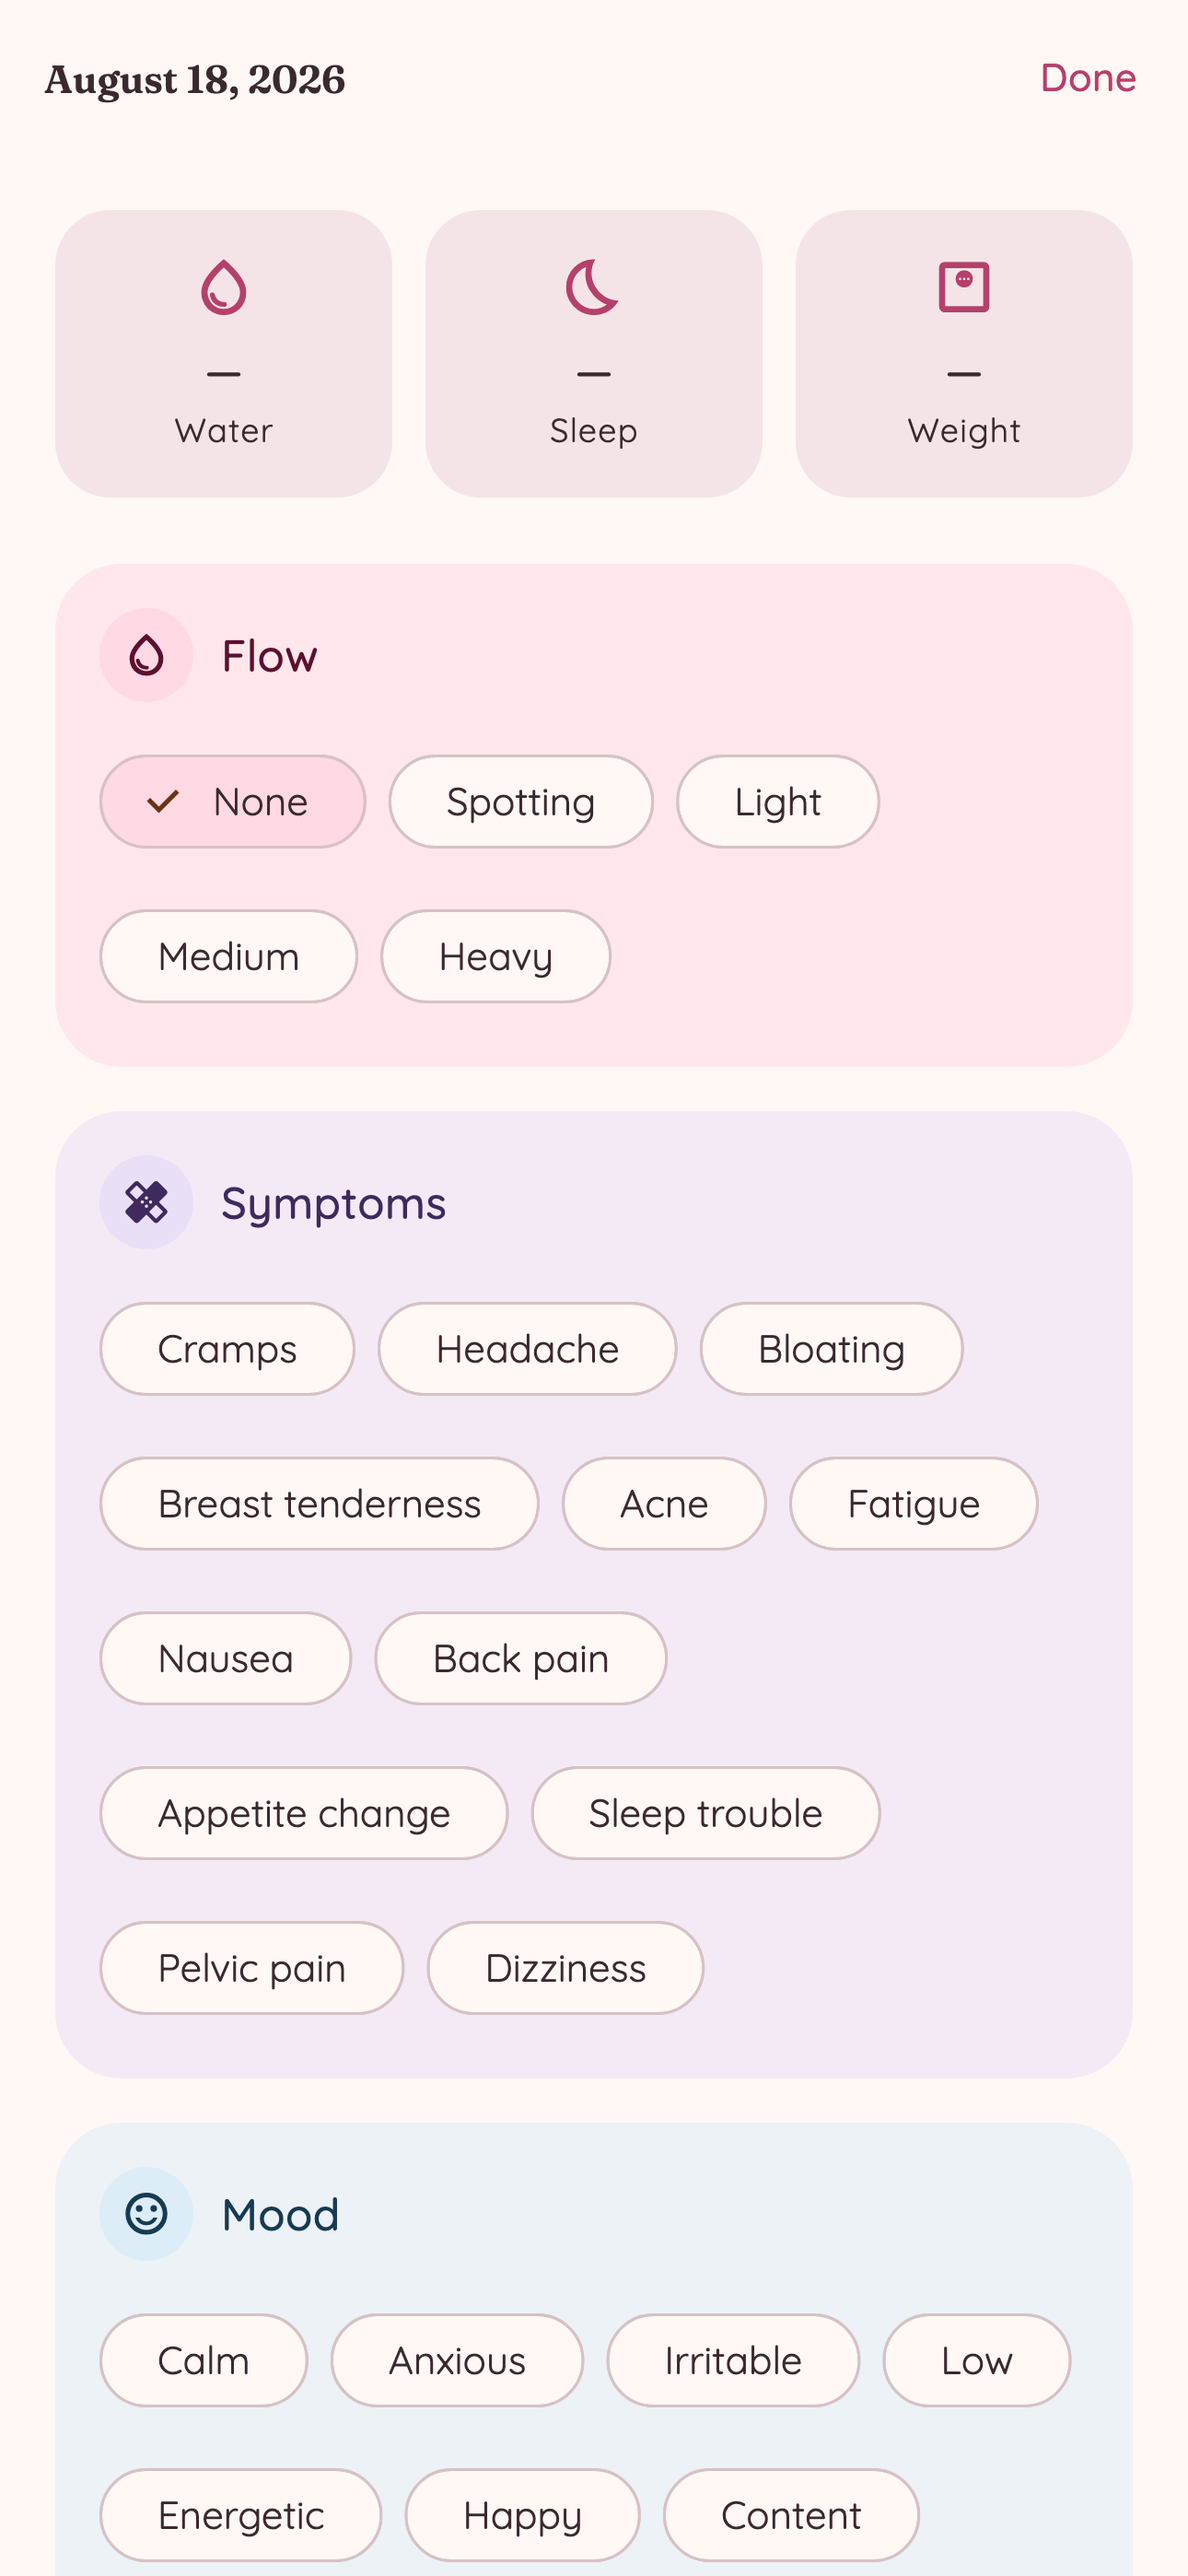
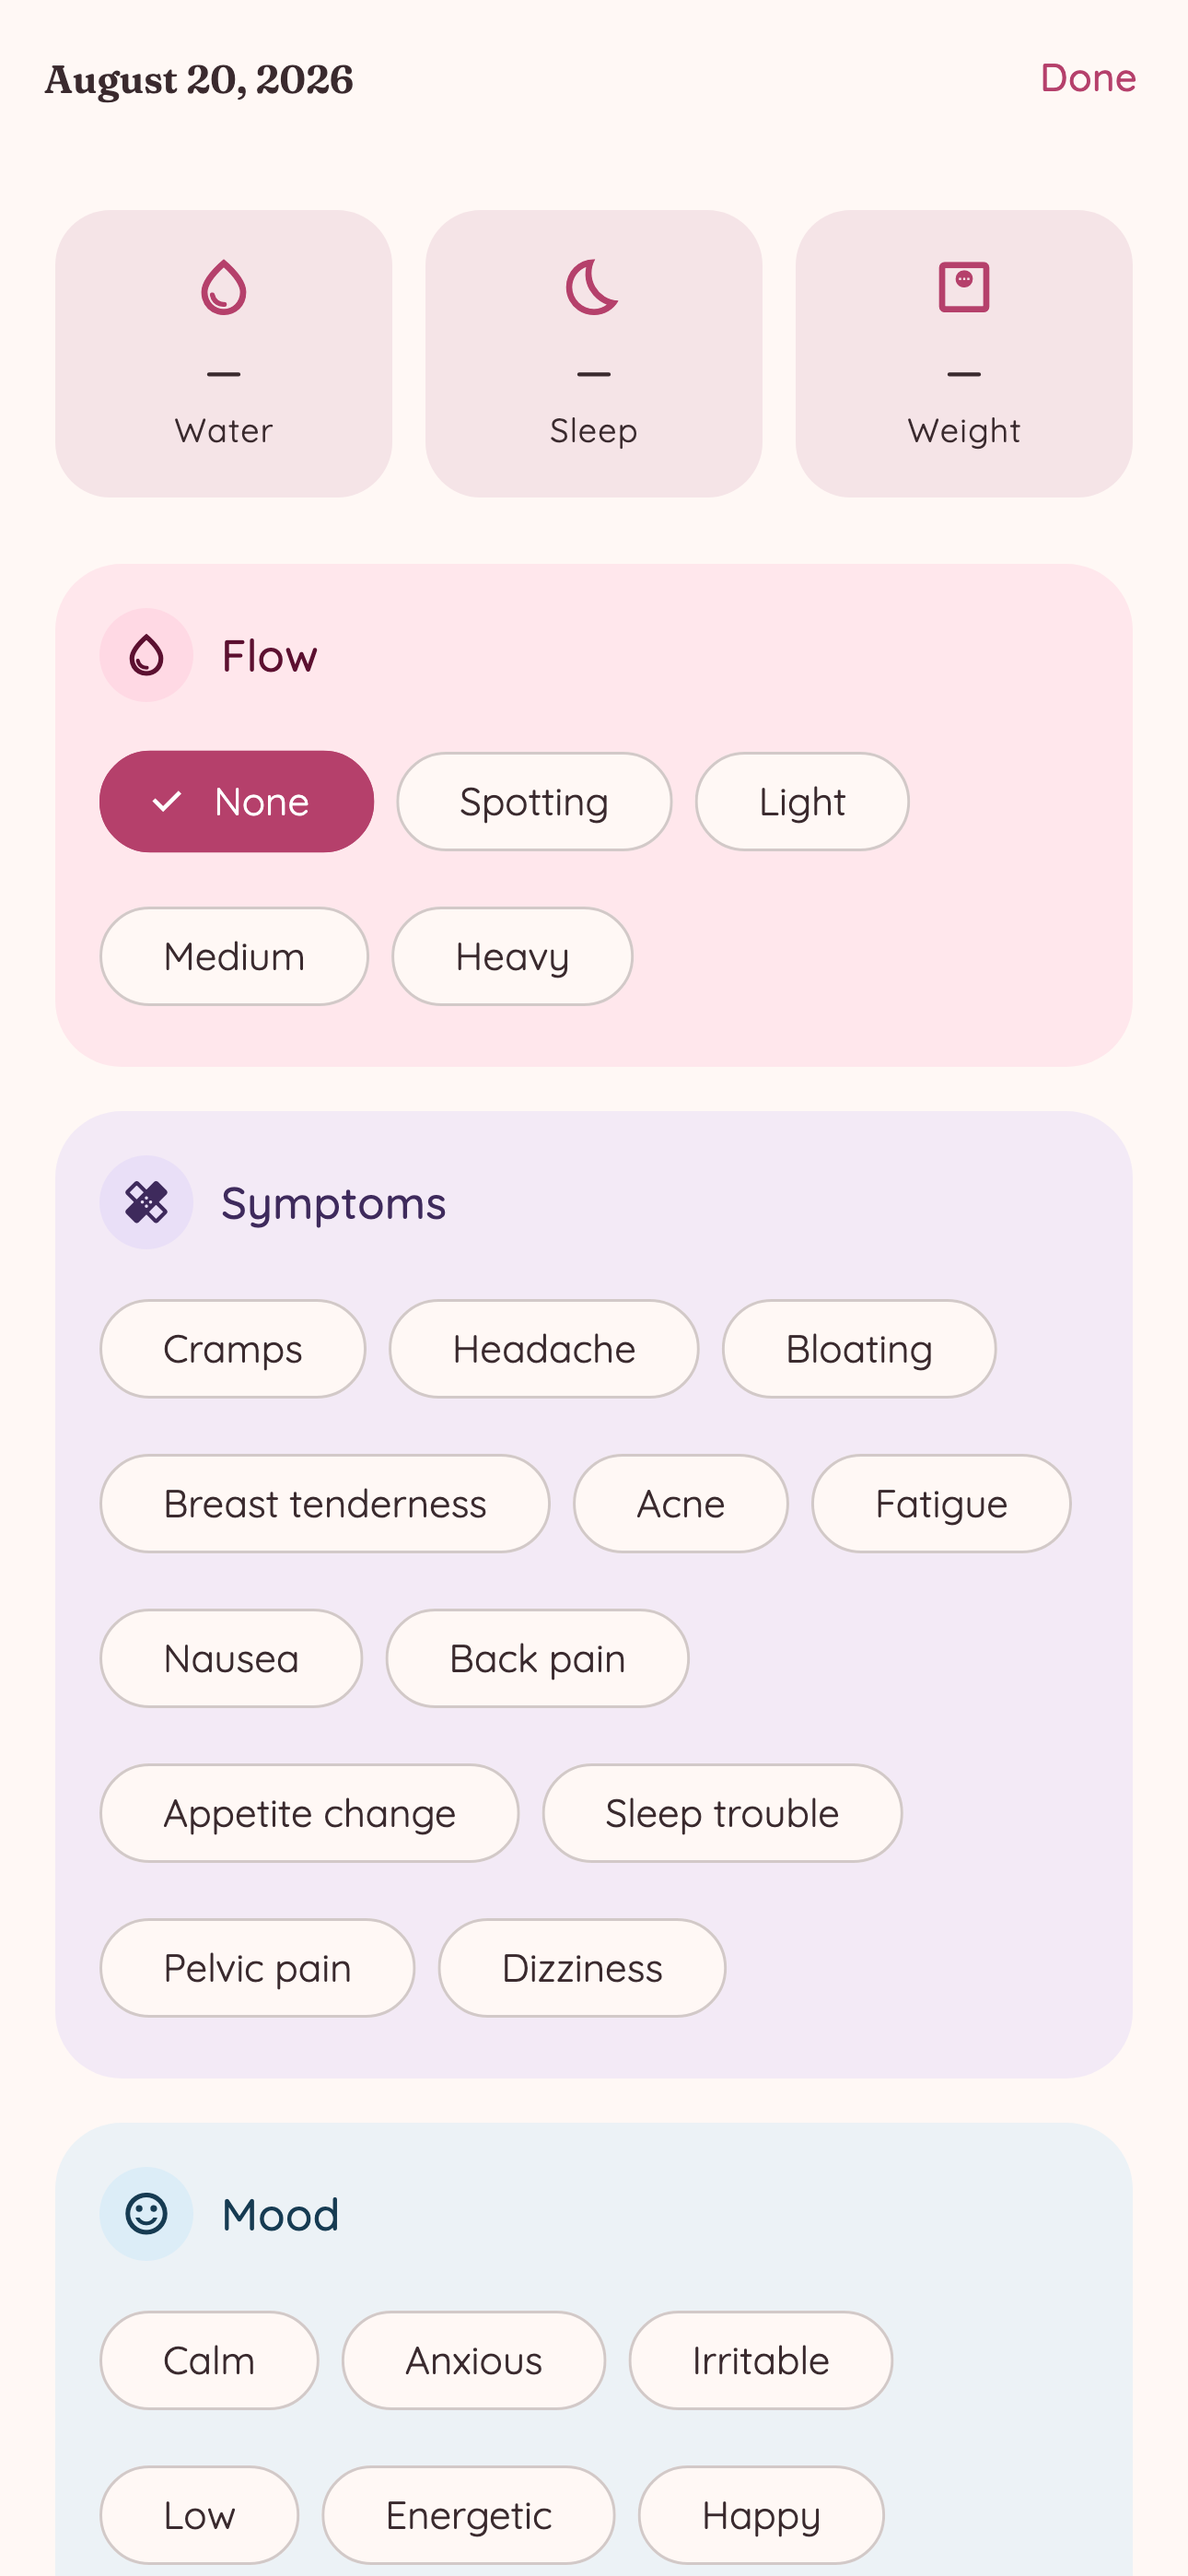
Lock this round's bugs into tests, and refresh the goldens
Thirteen regressions, chosen for the shape they share: nothing threw,
nothing looked wrong in a widget test, and each only surfaced on a real
device or in a real theme. Inactive must not lock and paused must; a sheet
the app opened must hold the lock off; a symptom tap must not reach the
health export while a flow change must; an import must be one write; dark
ink must be lighter than the dark surface; a chip label must keep its font
family; a selected chip must not be the colour of the card behind it; a
mascot set to none must dispose cleanly.

The phase-tip test now renders on a tall surface. ListView only builds what
fits, and the explainer alone fills a phone viewport now, so the detail
block below it was never constructed — the test was failing for a content
edit rather than a content problem.

flutter analyze is clean. The two file-level ignores are deliberate and
carry their reasons: the constructors take public parameter names for
private fields, and the lifecycle parameter is not called `state` because
this class already has a `state` getter.

Store screenshots and the RTL golden are regenerated for the new chips.

diff --git a/app/test/regressions_2026_08_20_test.dart b/app/test/regressions_2026_08_20_test.dart
@@ -1,0 +1,250 @@
+import 'package:cycle_app/models/day_log.dart';
+import 'package:cycle_app/models/enums.dart';
+import 'package:cycle_app/services/day_log_repository.dart';
+import 'package:cycle_app/services/health_sync_service.dart';
+import 'package:cycle_app/services/in_memory_day_log_repository.dart';
+import 'package:cycle_app/services/pin_vault.dart';
+import 'package:cycle_app/state/app_lock_controller.dart';
+import 'package:cycle_app/state/assistant_conversation.dart';
+import 'package:cycle_app/state/cycle_controller.dart';
+import 'package:cycle_app/theme/app_theme.dart';
+import 'package:cycle_app/util/day.dart';
+import 'package:cycle_app/widgets/illustrations.dart';
+import 'package:flutter/material.dart';
+import 'package:flutter_test/flutter_test.dart';
+
+/// Each of these locks in a bug found on 2026-08-20. They share a shape:
+/// nothing threw, nothing looked broken in a widget test, and the failure
+/// only showed up on a real device or in a real theme.
+
+/// Counts writes so "one import, one write" is testable.
+class _CountingRepository implements DayLogRepository {
+  _CountingRepository(this._inner);
+
+  final DayLogRepository _inner;
+  int writes = 0;
+
+  @override
+  Future<List<DayLog>> loadAll() => _inner.loadAll();
+
+  @override
+  Future<void> replaceAll(List<DayLog> logs) {
+    writes++;
+    return _inner.replaceAll(logs);
+  }
+
+  @override
+  Future<void> upsert(DayLog log) => _inner.upsert(log);
+
+  @override
+  Future<void> delete(DateTime date) => _inner.delete(date);
+
+  @override
+  Future<void> eraseEverything() => _inner.eraseEverything();
+}
+
+class _RecordingHealthSync extends HealthSyncService {
+  final written = <DateTime>[];
+
+  @override
+  Future<void> writeDay(DayLog log) async => written.add(log.date);
+}
+
+void main() {
+  group('the app lock and the sheets the app opens itself', () {
+    late AppLockController lock;
+
+    setUp(() {
+      lock = AppLockController(pinVault: PinVault())..unlockAfterSetup();
+    });
+
+    tearDown(() => lock.dispose());
+
+    test('inactive does not lock', () {
+      // Face ID prompts, permission alerts and Control Centre all report
+      // inactive. Locking on it made the biometric prompt race its own
+      // lock screen.
+      lock.didChangeAppLifecycleState(AppLifecycleState.inactive);
+      expect(lock.state, AppLockState.unlocked);
+    });
+
+    test('actually leaving the foreground still locks', () {
+      lock.didChangeAppLifecycleState(AppLifecycleState.paused);
+      expect(lock.state, AppLockState.locked);
+    });
+
+    test('a share sheet or file picker does not lock', () async {
+      await lock.duringSystemSheet(() async {
+        lock.didChangeAppLifecycleState(AppLifecycleState.paused);
+        expect(lock.state, AppLockState.unlocked,
+            reason: 'the picker would be unmounted mid-await');
+      });
+      lock.didChangeAppLifecycleState(AppLifecycleState.resumed);
+      expect(lock.state, AppLockState.unlocked);
+    });
+
+    test('the suspension ends with the sheet, not after it', () {
+      lock.didChangeAppLifecycleState(AppLifecycleState.paused);
+      expect(lock.state, AppLockState.locked,
+          reason: 'no sheet is open, so this is an ordinary backgrounding');
+    });
+  });
+
+  group('health export', () {
+    test('an edit that touches no exported field is not synced', () async {
+      final sync = _RecordingHealthSync();
+      final controller = CycleController(
+        repository: InMemoryDayLogRepository(),
+        healthSync: sync,
+      );
+
+      await controller.upsertDay(DayLog(
+        date: today(),
+        flow: FlowIntensity.medium,
+      ));
+      expect(sync.written, hasLength(1));
+
+      // The day-log screen saves on every tap; a symptom is not a health
+      // type, so this must not become a second record for the same day.
+      await controller.upsertDay(DayLog(
+        date: today(),
+        flow: FlowIntensity.medium,
+        symptoms: const {Symptom.cramps},
+      ));
+      expect(sync.written, hasLength(1));
+
+      // Changing the flow itself is a real change and does sync.
+      await controller.upsertDay(DayLog(
+        date: today(),
+        flow: FlowIntensity.heavy,
+        symptoms: const {Symptom.cramps},
+      ));
+      expect(sync.written, hasLength(2));
+    });
+
+    test('detaching the service stops the writes immediately', () async {
+      final sync = _RecordingHealthSync();
+      final controller = CycleController(
+        repository: InMemoryDayLogRepository(),
+        healthSync: sync,
+      );
+
+      // Turning the setting off used to leave this attached until the next
+      // app launch, so an export the user had switched off kept running.
+      controller.healthSync = null;
+      await controller.upsertDay(
+          DayLog(date: today(), flow: FlowIntensity.medium));
+      expect(sync.written, isEmpty);
+    });
+
+    test('exportedFieldsDiffer only fires on exported fields', () {
+      final base = DayLog(date: today(), weightKg: 60);
+      expect(
+        HealthSyncService.exportedFieldsDiffer(
+            base, base.copyWith(mood: Mood.calm)),
+        isFalse,
+      );
+      expect(
+        HealthSyncService.exportedFieldsDiffer(
+            base, base.copyWith(weightKg: 61)),
+        isTrue,
+      );
+      expect(HealthSyncService.exportedFieldsDiffer(null, DayLog(date: today())),
+          isFalse);
+    });
+  });
+
+  group('CSV import', () {
+    test('a whole import is one write, and existing days win', () async {
+      final repo = _CountingRepository(InMemoryDayLogRepository());
+      final controller = CycleController(repository: repo);
+      await controller
+          .upsertDay(DayLog(date: today(), flow: FlowIntensity.heavy));
+      repo.writes = 0;
+
+      final added = await controller.addMissingDays([
+        // Same day as an existing entry: the deliberate one must survive.
+        DayLog(date: today(), flow: FlowIntensity.light),
+        for (var i = 1; i <= 40; i++) DayLog(date: addDays(today(), -i)),
+      ]);
+
+      expect(added, 40);
+      expect(repo.writes, 1,
+          reason: 'per-row upsert re-encrypted the whole store 40 times');
+      expect(controller.logFor(today())?.flow, FlowIntensity.heavy);
+    });
+  });
+
+  group('theme', () {
+    test('dark mode uses light ink', () {
+      // Both themes were built from Typography's *black* text theme, so in
+      // dark mode every string that did not set its own colour was painted
+      // near-black on a near-black surface and simply vanished.
+      final dark = buildDarkAppTheme();
+      final light = buildAppTheme();
+
+      double luminance(Color? c) => c!.computeLuminance();
+
+      expect(luminance(dark.textTheme.titleMedium?.color),
+          greaterThan(luminance(dark.colorScheme.surface)),
+          reason: 'dark-mode body ink must be lighter than the surface');
+      expect(luminance(light.textTheme.titleMedium?.color),
+          lessThan(luminance(light.colorScheme.surface)));
+    });
+
+    test('chip labels keep the app font', () {
+      // RawChip resolves the label *colour* per state but uses the
+      // TextStyle verbatim, so a WidgetStateTextStyle silently degraded to
+      // the empty style it subclasses — dropping the family and size.
+      for (final theme in [buildAppTheme(), buildDarkAppTheme()]) {
+        final label = theme.chipTheme.labelStyle;
+        // fontSize is deliberately not asserted: Typography leaves it to
+        // the Material defaults at this layer, so it is null here in a
+        // perfectly healthy theme. The family is the thing that broke.
+        expect(label?.fontFamily, 'Quicksand',
+            reason: 'chip labels fell back to the platform font');
+      }
+    });
+
+    test('a selected chip is not the colour of the card behind it', () {
+      // Selected chips were filled with primaryContainer, which is exactly
+      // the flow card's own background — the selection disappeared into it.
+      for (final theme in [buildAppTheme(), buildDarkAppTheme()]) {
+        final selected = theme.chipTheme.color
+            ?.resolve({WidgetState.selected});
+        expect(selected, isNot(theme.colorScheme.primaryContainer));
+      }
+    });
+  });
+
+  group('widgets', () {
+    testWidgets('a mascot avatar set to none disposes cleanly', (tester) async {
+      // The controller was a lazy `late` field that build never touched for
+      // Mascot.none, so dispose() was what first created it — building a
+      // ticker against an already-deactivated element.
+      await tester.pumpWidget(const MaterialApp(
+        home: MascotAvatar(mascot: Mascot.none),
+      ));
+      await tester.pumpWidget(const MaterialApp(home: SizedBox()));
+      expect(tester.takeException(), isNull);
+    });
+  });
+
+  group('assistant', () {
+    test('the conversation survives until it is ended deliberately', () {
+      // It used to live in the tab's State, which the shell disposes on
+      // every tab switch — glancing at the calendar wiped the chat.
+      final conversation = AssistantConversation()
+        ..addUserMessage('merhaba')
+        ..addReply('Merhaba.', const ['a', 'b']);
+
+      expect(conversation.isEmpty, isFalse);
+      expect(conversation.messages, hasLength(2));
+      expect(conversation.typing, isFalse);
+
+      conversation.clear();
+      expect(conversation.isEmpty, isTrue);
+      expect(conversation.followUps, isEmpty);
+    });
+  });
+}

diff --git a/app/test/phase_tip_detail_test.dart b/app/test/phase_tip_detail_test.dart
@@ -24,6 +24,15 @@ void main() {
         testWidgets(
             '${locale.languageCode}: ${phase.name}/${category.name} renders '
             'real text', (tester) async {
+          // A tall surface, because ListView only builds what fits. The
+          // explainer alone now fills a phone-sized viewport, so on the
+          // default 800px surface the detail block below it was never
+          // constructed and this test started failing for a content edit
+          // rather than a content problem.
+          tester.view.physicalSize = const Size(1200, 4000);
+          tester.view.devicePixelRatio = 1;
+          addTearDown(tester.view.reset);
+
           await tester.pumpWidget(_app(
             PhaseTipDetailScreen(
               phase: phase,
@@ -50,8 +59,8 @@ void main() {
           expect(long.length, greaterThanOrEqualTo(2),
               reason: 'expected explainer and detail prose');
 
-          // The disclaimer sits below the fold, so it only exists after a
-          // scroll — and it must never be the thing that got dropped.
+          // Scrolling must not drop anything either — the disclaimer lives
+          // at the bottom and is the block most likely to be lost.
           await tester.drag(find.byType(ListView), const Offset(0, -600));
           await tester.pump();
           expect(

diff --git a/app/test/services/cycle_assistant_test.dart b/app/test/services/cycle_assistant_test.dart
@@ -87,9 +87,11 @@ void main() {
 
   test('asking whether it is an AI is answered honestly', () {
     final tr = assistant.answer('sen yapay zeka mısın', ctx, 'tr');
-    expect(tr, contains('uydurmam'));
+    // Phrased impersonally now (CLAUDE.md: the assistant is a product, not
+    // a person), but it must still say plainly that it does not invent.
+    expect(tr, contains('uydurulmaz'));
     final en = assistant.answer('are you ai', ctx, 'en');
-    expect(en, contains('never send your questions to the internet'));
+    expect(en, contains('never sent to the internet'));
   });
 
   test('questions about using the app are answered, not deflected', () {
@@ -147,7 +149,7 @@ void main() {
 
   test('greets back instead of falling back on small talk', () {
     expect(assistant.answer('merhaba', ctx, 'tr'), contains('Merhaba'));
-    expect(assistant.answer('hello', ctx, 'en'), contains('Hi'));
+    expect(assistant.answer('hello', ctx, 'en'), contains('Hello'));
     expect(assistant.answer('kimsin sen', ctx, 'tr'), contains('Vera Asistan'));
   });
 

diff --git a/app/test/rtl_layout_test.dart b/app/test/rtl_layout_test.dart
@@ -13,6 +13,7 @@ import 'package:cycle_app/services/in_memory_day_log_repository.dart';
 import 'package:cycle_app/services/pin_vault.dart';
 import 'package:cycle_app/services/reminder_service.dart';
 import 'package:cycle_app/state/app_preferences.dart';
+import 'package:cycle_app/state/assistant_conversation.dart';
 import 'package:cycle_app/state/cycle_controller.dart';
 import 'package:cycle_app/theme/app_theme.dart';
 import 'package:cycle_app/util/day.dart';
@@ -45,6 +46,8 @@ Future<Widget> _wrap(Widget child, {required Locale locale}) async {
   return MultiProvider(
     providers: [
       ChangeNotifierProvider<AppPreferences>.value(value: prefs),
+      ChangeNotifierProvider<AssistantConversation>(
+          create: (_) => AssistantConversation()),
       ChangeNotifierProvider<CycleController>.value(value: controller),
       Provider<PinVault>(create: (_) => PinVault()),
       Provider<ReminderService>(create: (_) => ReminderService()),

diff --git a/app/test/all_screens_smoke_test.dart b/app/test/all_screens_smoke_test.dart
@@ -21,6 +21,7 @@ import 'package:cycle_app/services/in_memory_day_log_repository.dart';
 import 'package:cycle_app/services/pin_vault.dart';
 import 'package:cycle_app/services/reminder_service.dart';
 import 'package:cycle_app/state/app_preferences.dart';
+import 'package:cycle_app/state/assistant_conversation.dart';
 import 'package:cycle_app/state/cycle_controller.dart';
 import 'package:cycle_app/theme/app_theme.dart';
 import 'package:cycle_app/util/day.dart';
@@ -63,6 +64,8 @@ Future<Widget> _app(Widget screen, {bool withData = true}) async {
   return MultiProvider(
     providers: [
       ChangeNotifierProvider<AppPreferences>.value(value: prefs),
+      ChangeNotifierProvider<AssistantConversation>(
+          create: (_) => AssistantConversation()),
       ChangeNotifierProvider<CycleController>.value(value: controller),
       Provider<PinVault>(create: (_) => PinVault()),
       Provider<ReminderService>(create: (_) => ReminderService()),

diff --git a/app/lib/services/backup_service.dart b/app/lib/services/backup_service.dart
@@ -1,3 +1,7 @@
+// ignore_for_file: prefer_initializing_formals
+// The fields are private and the constructor parameters are not, so an
+// initializing formal would force every caller to write `_repository:`.
+// The lint has no way to express "same value, different name".
 import 'dart:convert';
 import 'dart:math';
 import 'dart:typed_data';

diff --git a/app/test/theme_typography_test.dart b/app/test/theme_typography_test.dart
@@ -1,5 +1,4 @@
 import 'package:cycle_app/theme/app_theme.dart';
-import 'package:flutter/material.dart';
 import 'package:flutter_test/flutter_test.dart';
 
 /// The app bundles two fonts and used to render only one of them.
